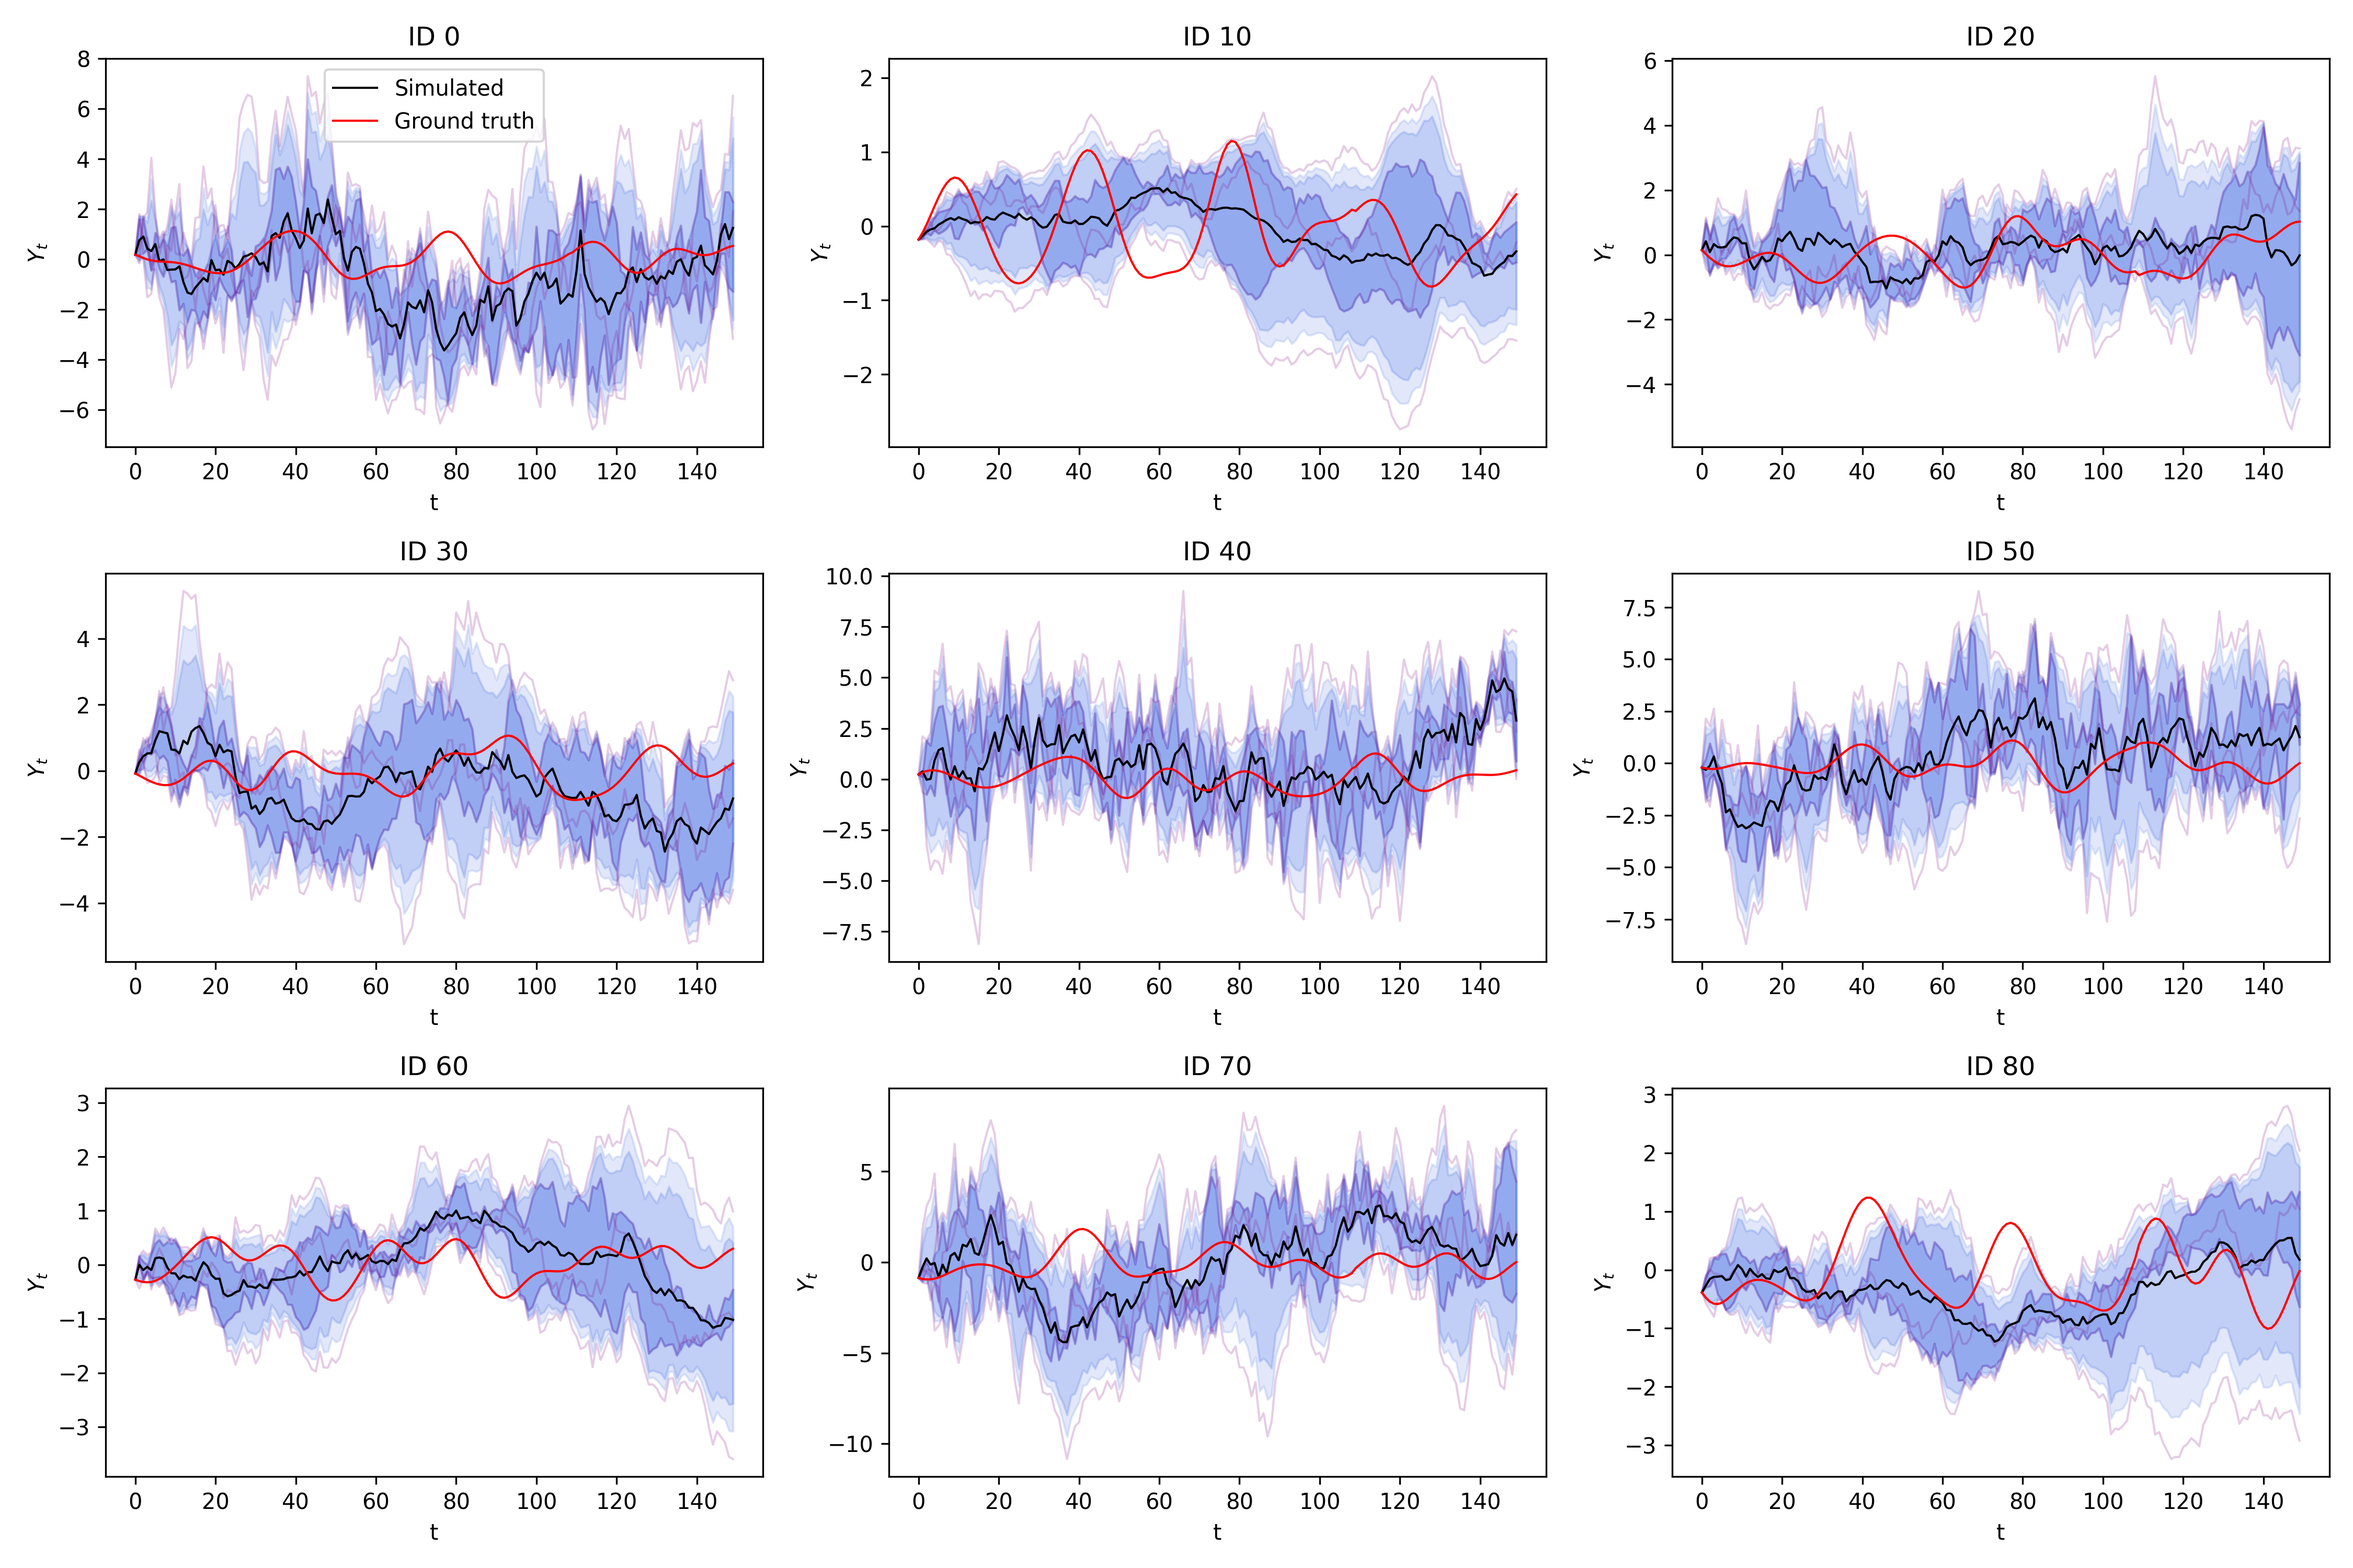
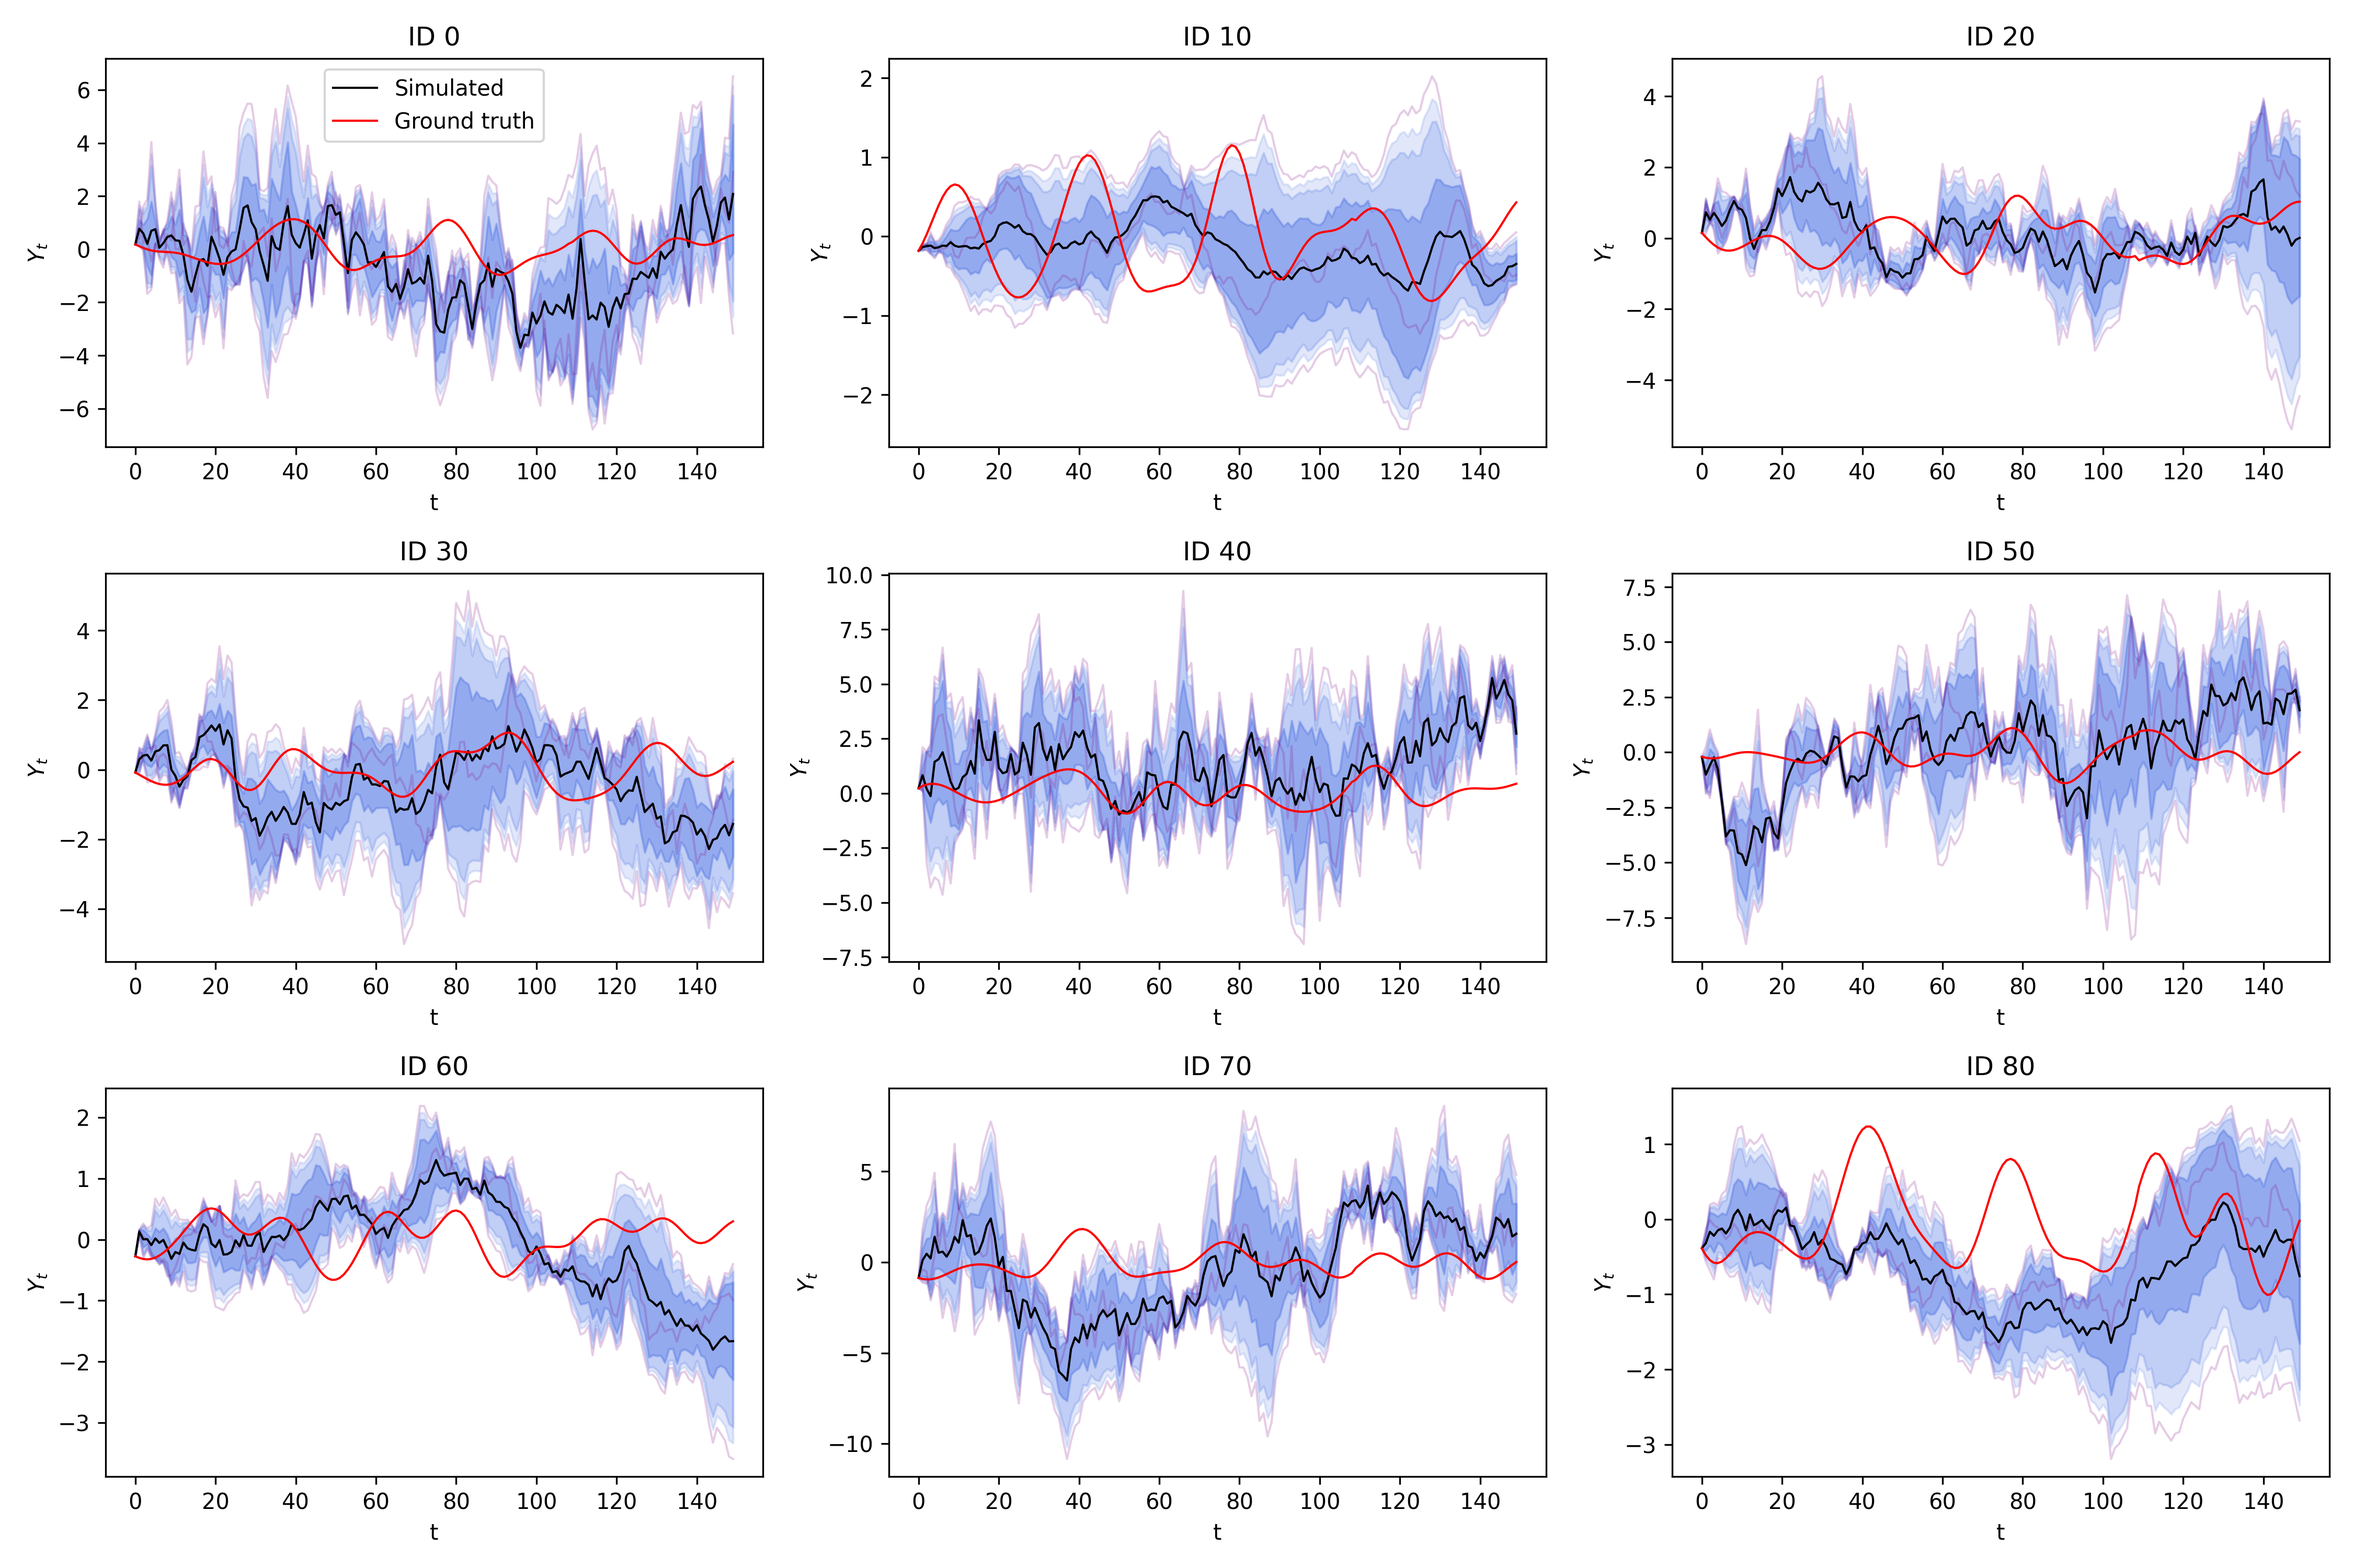
new

diff --git a/examples/train_sde.py b/examples/train_sde.py
@@ -14,13 +14,13 @@ from nsc.training import Trainer, TrainerConfig, LatentTrainer
 
 def main():
     parser = argparse.ArgumentParser()
-    parser.add_argument("--model-type", type=str, default="mlp", choices=["mlp", "linear", "latent", "hopf"])
+    parser.add_argument("--model-type", type=str, default="hopf", choices=["mlp", "linear", "latent", "hopf"])
     parser.add_argument("--data-dir", type=str, default="data_processed/ts_young/")
     parser.add_argument("--batch-size", type=int, default=64)
     parser.add_argument("--epochs", type=int, default=800)
     parser.add_argument("--n-repeat", type=int, default=256)
     parser.add_argument("--activation", type=str, default="tanh")
-    parser.add_argument("--lr", type=float, default=1e-2)
+    parser.add_argument("--lr", type=float, default=1e-3)
     parser.add_argument("--lr-end", type=float, default=1e-3)
     parser.add_argument("--method", type=str, default='midpoint')
     parser.add_argument("--sde-type", type=str, default="stratonovich", choices=["ito", "stratonovich"])
@@ -38,7 +38,7 @@ def main():
     parser.add_argument("--hidden-size", type=int, default=512)
     parser.add_argument("--noise-type", type=str, default="diagonal", choices=["diagonal", "additive", "general"])
     parser.add_argument("--dt", type=float, default=1.0)
-    parser.add_argument("--num-patients", type=int, default=1)
+    parser.add_argument("--num-patients", type=int, default=20)
     parser.add_argument("--grad-clip", type=float, default=5)
     parser.add_argument("--loss", type=str, default="ks+mae", choices=["mse", "mae", "ks", "ks+mae"])
     parser.add_argument("--dt-num", type=float, default=0.1)

diff --git a/nsc/hopf.py b/nsc/hopf.py
@@ -11,14 +11,14 @@ class HopfCoupledSDE(nn.Module):
         self.num_osc = state_size // 2
         
         # Parameters for each oscillator
-        self.a = nn.Parameter(torch.rand(self.num_osc), requires_grad=True)       # growth rate a_n
-        self.omega = nn.Parameter(torch.rand(self.num_osc), requires_grad=True)   # frequency ω_n
-        self.C = nn.Parameter(0.05+0.05*torch.rand((self.num_osc, self.num_osc)))
+        self.a = nn.Parameter(1+0.*torch.rand(self.num_osc), requires_grad=True)       # growth rate a_n
+        self.omega = nn.Parameter(1+0.*torch.rand(self.num_osc), requires_grad=True)   # frequency ω_n
+        self.C = nn.Parameter(0.0*torch.rand((self.num_osc, self.num_osc)))
 
         if noise_type=="additive":
-            self.B = nn.Parameter(torch.randn((state_size, brownian_size)))
+            self.B = nn.Parameter(0.0*torch.randn((state_size, brownian_size)))
         elif noise_type=="diagonal":
-            self.B = nn.Parameter(torch.randn(state_size))
+            self.B = nn.Parameter(0.0*torch.randn(state_size))
     
     def f(self, t, y):
         y_x = y[:, :self.num_osc]

diff --git a/examples/test_sde.py b/examples/test_sde.py
@@ -34,7 +34,7 @@ def main():
     parser.add_argument('--ckpt', type=str, default='runs/mlp_132_0.210340_20260114-161612.pt', help='Checkpoint file or directory containing best_epoch_*.pt')
     parser.add_argument('--model-type', type=str, choices=['mlp', 'hopf', 'linear', 'latent'], help='Override model type; otherwise inferred from checkpoint cfg or --model')
     parser.add_argument('--data-dir', type=str, default='data_processed/ts_young/')
-    parser.add_argument('--n-samples', type=int, default=5, help='Number of stochastic sample paths to simulate')
+    parser.add_argument('--n-samples', type=int, default=3, help='Number of stochastic sample paths to simulate')
     parser.add_argument('--device', type=str, default='cuda' if torch.cuda.is_available() else 'cpu')
     parser.add_argument('--seed', type=int, default=42)
     parser.add_argument("--num-patients", type=int, default=1)

diff --git a/nsc/training.py b/nsc/training.py
@@ -144,7 +144,7 @@ class Trainer:
             self.loss_fn = loss_fn
         elif cfg.loss=="ks+mae":
             self.loss_fn2 = nn.L1Loss()
-            self.loss_fn = lambda pred, target: 2*loss_fn(pred, target) + self.loss_fn2(pred, target)
+            self.loss_fn = lambda pred, target: 5*loss_fn(pred, target) + 0.5*self.loss_fn2(pred, target)
         # checkpoint bookkeeping
         self.best_val = float('inf')
         self.ckpt_path = None
